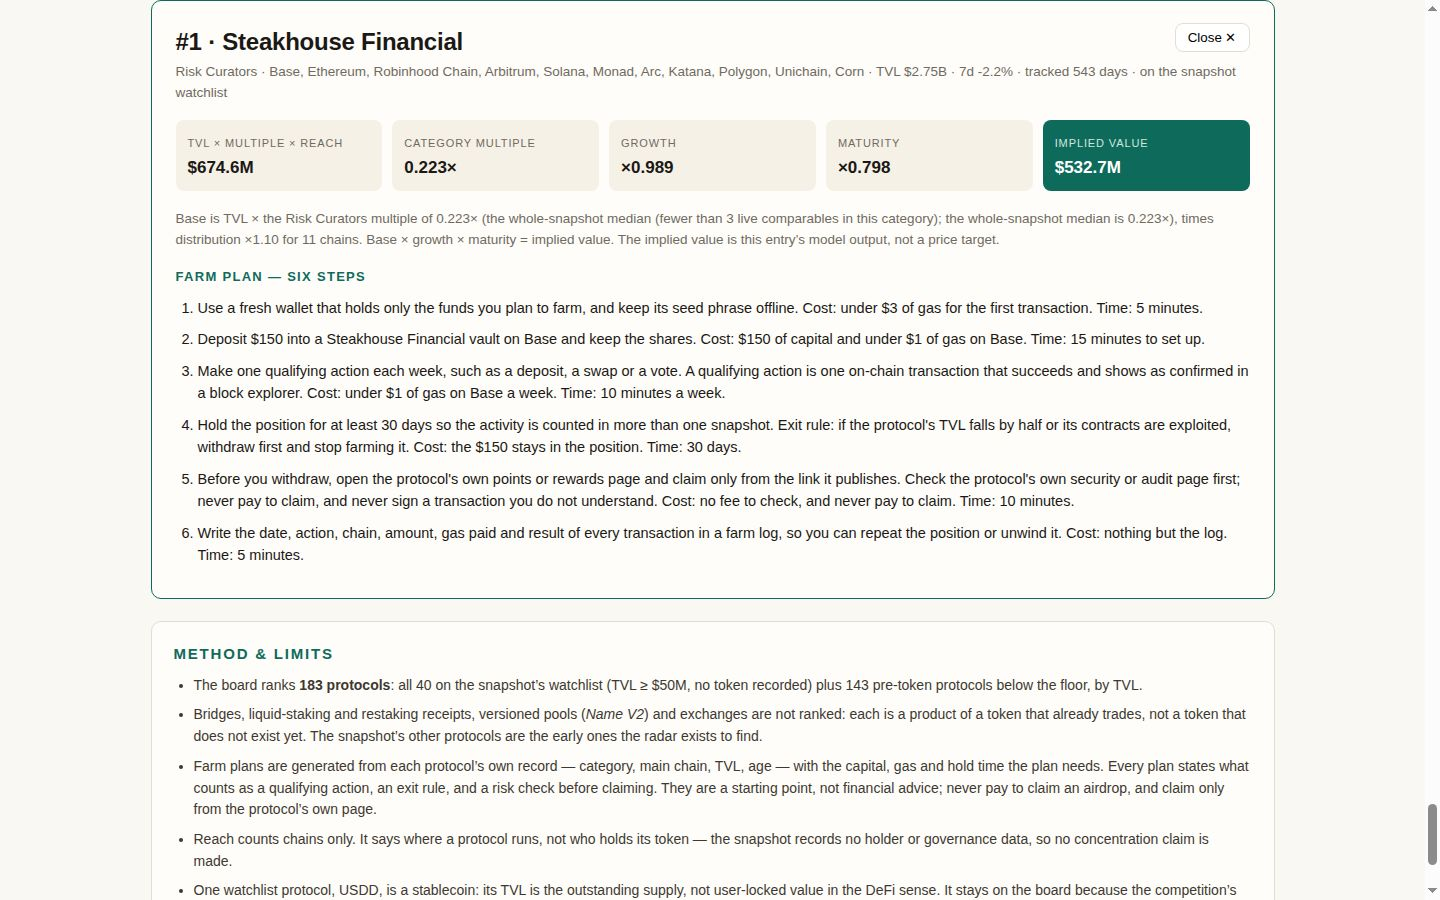
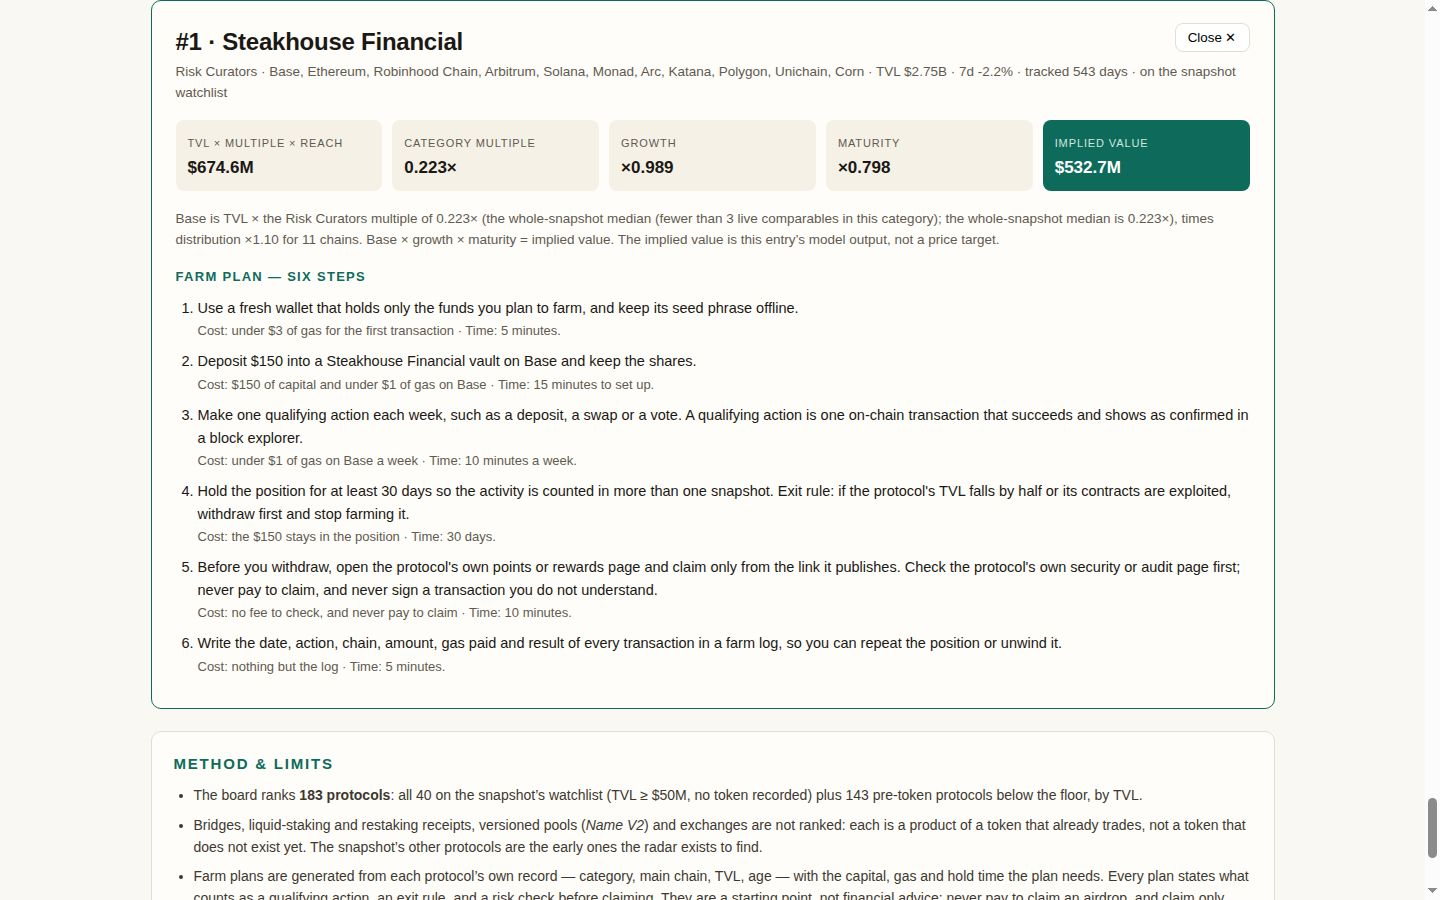
Visual review revision: readability and layout fixes (Qwen3-VL review 2026-11-18)
- Stat cards: Early finds tinted teal, Top implied value tinted amber
- Implied-value bars: title tooltip with % of top + howto explains the scale
- Farm plan: Cost/Time split onto their own meta line per step
- Value-model text split into two paragraphs; table headers 12px bold
- Small-text contrast: --muted darkened; Calibration table link underlined
- Detail title padded clear of the Close button; click-a-row hint bolded
- Model/data unchanged: data.js and board.json hashes identical (183 rows)

Changed region(s): [[0.125, 0.3422, 0.875, 1.0]]

diff --git a/dashboard/app.css b/dashboard/app.css
@@ -1,5 +1,5 @@
 :root{
-  --paper:#faf8f3; --card:#fffdf9; --ink:#1b1815; --muted:#6f6a61; --line:#e4ddd2;
+  --paper:#faf8f3; --card:#fffdf9; --ink:#1b1815; --muted:#5f5a51; --line:#e4ddd2;
   --teal:#0e6b5c; --teal-soft:#e2efeb; --amber:#b45309; --amber-soft:#fbeedd;
   --up:#177245; --down:#b3372e; --radius:10px;
 }
@@ -25,6 +25,8 @@ a{color:var(--teal)}
   background:var(--card);overflow:hidden;list-style:none}
 .stats div{flex:1;padding:14px 18px;border-left:1px solid var(--line)}
 .stats div:first-child{border-left:0}
+.stats div.hot{background:var(--amber-soft)}
+.stats div.cool{background:var(--teal-soft)}
 .stats dt{font-size:11px;letter-spacing:.12em;text-transform:uppercase;color:var(--muted)}
 .stats dd{margin:2px 0 0;font-size:23px;font-weight:700;font-variant-numeric:tabular-nums}
 .stats dd small{display:block;font-size:12.5px;font-weight:500;color:var(--muted)}
@@ -34,7 +36,7 @@ main{max-width:1180px;margin:0 auto;padding:20px 28px 10px}
 .formula{font-size:17px;font-weight:650;letter-spacing:-.01em;margin:0 0 8px}
 .model p{font-size:14.5px;color:#3d3831;max-width:900px}
 .model details{margin-top:6px}
-.model summary{cursor:pointer;color:var(--teal);font-weight:600;font-size:14px}
+.model summary{cursor:pointer;color:var(--teal);font-weight:600;font-size:14px;text-decoration:underline;text-underline-offset:2px}
 .calib{border-collapse:collapse;margin-top:12px;font-size:13.5px}
 .calib th,.calib td{padding:5px 16px 5px 0;text-align:left;border-bottom:1px solid var(--line);font-variant-numeric:tabular-nums}
 .calib th{color:var(--muted);font-size:11px;letter-spacing:.1em;text-transform:uppercase}
@@ -52,7 +54,7 @@ main{max-width:1180px;margin:0 auto;padding:20px 28px 10px}
 .count{font-size:13px;color:var(--muted);margin:12px 0 0}
 .board{width:100%;border-collapse:collapse;background:var(--card);border:1px solid var(--line);
   border-radius:var(--radius);overflow:hidden;font-size:14.5px}
-.board th{font-size:11px;letter-spacing:.1em;text-transform:uppercase;color:var(--muted);
+.board th{font-size:12px;font-weight:700;letter-spacing:.1em;text-transform:uppercase;color:var(--muted);
   text-align:left;padding:11px 12px;border-bottom:1px solid var(--line);background:#f4efe6;cursor:pointer;white-space:nowrap}
 .board th.num{text-align:right}
 .board td{padding:8px 12px;border-bottom:1px solid #efe9dd;vertical-align:middle}
@@ -74,7 +76,7 @@ main{max-width:1180px;margin:0 auto;padding:20px 28px 10px}
 .live-note{font-size:14px;color:#3d3831;background:var(--card);border:1px solid var(--line);
   border-radius:var(--radius);padding:14px 18px;margin:0 0 14px}
 .detail{margin:22px 0;background:var(--card);border:1.5px solid var(--teal);border-radius:var(--radius);padding:22px 24px}
-.detail h3{font-size:24px;margin:0 0 2px;letter-spacing:-.01em}
+.detail h3{font-size:24px;margin:0 0 2px;letter-spacing:-.01em;padding-right:96px}
 .detail .dsub{color:var(--muted);font-size:13.5px;margin:0 0 16px}
 .math{display:grid;grid-template-columns:repeat(5,1fr);gap:10px;margin:0 0 18px}
 .math .cell{background:#f6f1e7;border-radius:8px;padding:10px 12px}
@@ -86,7 +88,7 @@ main{max-width:1180px;margin:0 auto;padding:20px 28px 10px}
 .farm ol{margin:0;padding-left:22px}
 .farm li{margin-bottom:9px;font-size:14.5px}
 .farm li b{font-weight:650}
-.farm .meta{color:var(--muted);font-size:13px}
+.farm .meta{color:var(--muted);font-size:13px;margin-top:2px}
 .dclose{float:right;border:1px solid var(--line);background:#fff;border-radius:8px;padding:6px 12px;
   font:600 13px inherit;cursor:pointer}
 .method{background:var(--card);border:1px solid var(--line);border-radius:var(--radius);padding:20px 22px;margin-top:22px}

diff --git a/dashboard/app.js b/dashboard/app.js
@@ -34,8 +34,8 @@
   $('stats').innerHTML =
     '<div><dt>Protocols scanned</dt><dd>' + rows.length + ' <small>ranked</small></dd></div>' +
     '<div><dt>Watchlist</dt><dd>' + R.watchlist_size + ' <small>covered</small></dd></div>' +
-    '<div><dt>Early finds</dt><dd>' + R.early_size + ' <small>below the $50M floor</small></dd></div>' +
-    '<div><dt>Top implied value</dt><dd>' + money(top.implied_value_usd) + ' <small>' + esc(top.name) + '</small></dd></div>' +
+    '<div class="cool"><dt>Early finds</dt><dd>' + R.early_size + ' <small>below the $50M floor</small></dd></div>' +
+    '<div class="hot"><dt>Top implied value</dt><dd>' + money(top.implied_value_usd) + ' <small>' + esc(top.name) + '</small></dd></div>' +
     '<div><dt>Live tokens set aside</dt><dd>' + R.live_size + ' <small>already trading</small></dd></div>';
 
   /* Calibration table */
@@ -95,7 +95,7 @@
         '<td class="num">' + pct(r.change_7d) + '</td>' +
         '<td class="num">' + age(r.age_days) + '</td>' +
         '<td class="num"><span class="implied">' + money(r.implied_value_usd) +
-        '<span class="bar"><i style="width:' + w + '%"></i></span></span></td></tr>';
+        '<span class="bar" title="' + w + '% of the top implied value"><i style="width:' + w + '%"></i></span></span></td></tr>';
     }).join('');
     $('count').textContent = list.length + ' of ' + rows.length + ' ranked protocols' +
       (state.watchOnly ? ' · watchlist only' : '') + (state.cat ? ' · ' + state.cat : '') +
@@ -141,7 +141,16 @@
       '×), times distribution ×' + r.distribution_multiplier.toFixed(2) + ' for ' + r.chains.length + ' chain' +
       (r.chains.length === 1 ? '' : 's') + '. Base × growth × maturity = implied value. The implied value is this entry&rsquo;s model output, not a price target.</p>' +
       '<div class="farm"><h4>Farm plan — six steps</h4><ol>' +
-      r.farm_steps.map(function (s) { return '<li>' + esc(s) + '</li>'; }).join('') +
+      r.farm_steps.map(function (s) {
+        var ci = s.lastIndexOf(' Cost: '), ti = s.lastIndexOf(' Time: ');
+        if (ci > 0 && ti > ci) {
+          var cost = s.slice(ci + 7, ti);
+          if (cost.slice(-1) === '.') cost = cost.slice(0, -1);
+          return '<li>' + esc(s.slice(0, ci)) + '<div class="meta">Cost: ' + esc(cost) +
+            ' &middot; Time: ' + esc(s.slice(ti + 7)) + '</div></li>';
+        }
+        return '<li>' + esc(s) + '</li>';
+      }).join('') +
       '</ol></div>';
     d.classList.remove('hidden');
     $('dclose').onclick = function () { state.detail = null; renderBoard(); renderDetail(); };

diff --git a/dashboard/index.html b/dashboard/index.html
@@ -24,8 +24,9 @@
   <dl class="stats" id="stats"></dl>
   <p class="howto"><strong>How to read this board.</strong> Implied value is the entry&rsquo;s own claim,
   never a prediction that a token will launch or when. A protocol &ldquo;records no token&rdquo; when
-  DefiLlama&rsquo;s record carries no market cap, CoinGecko id or symbol for it. Click any row for its
-  model breakdown and farm plan.</p>
+  DefiLlama&rsquo;s record carries no market cap, CoinGecko id or symbol for it. <strong>Click any row for
+  its model breakdown and farm plan.</strong> The bar under each implied value is that value as a share
+  of the top row&rsquo;s.</p>
 </header>
 
 <main>
@@ -36,7 +37,8 @@
     multiple of the live-token protocols in the same category (at least 3 comparables, else the
     whole-snapshot median of <span id="overallMult">—</span>). The median is used because one outlier
     protocol cannot move it; the table prints each category&rsquo;s interquartile range so the spread is
-    visible. Growth is the 7-day TVL change, clamped to &minus;60&hellip;+120% and weighted by half, so
+    visible.</p>
+    <p>Growth is the 7-day TVL change, clamped to &minus;60&hellip;+120% and weighted by half, so
     it can move a value by at most &minus;30% to +60% — a one-week spike can never dominate the ranking.
     Maturity rises with how long the protocol has run with no token, from 0.60 to 1.00 over three years.
     Distribution adds up to 10% for multi-chain reach. No protocol name is ever special-cased: the same
